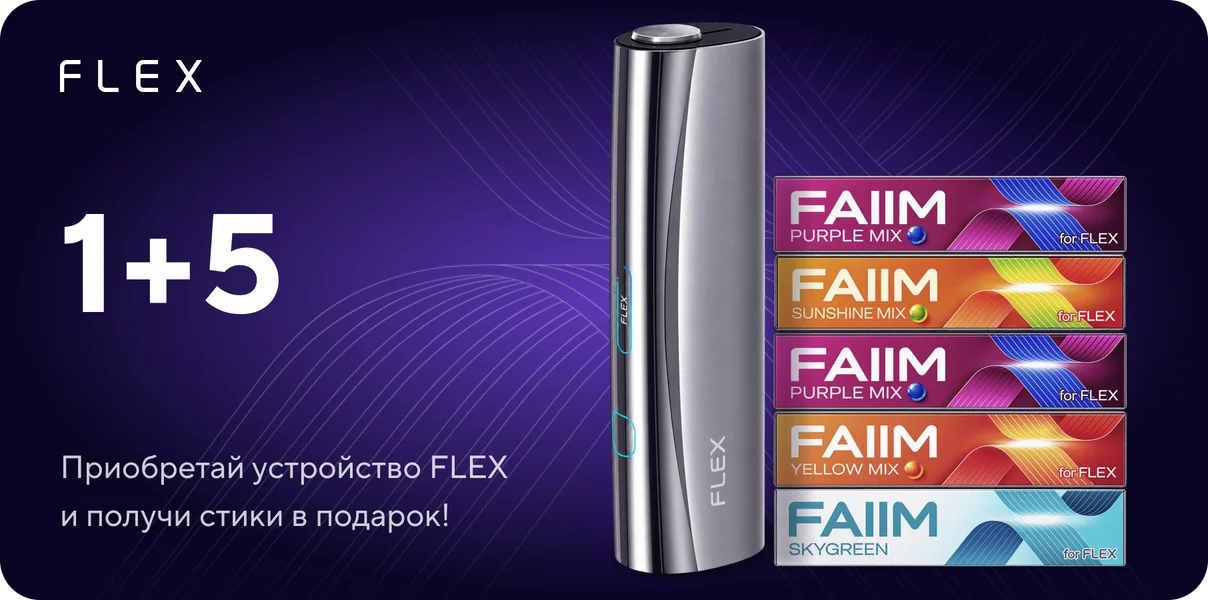
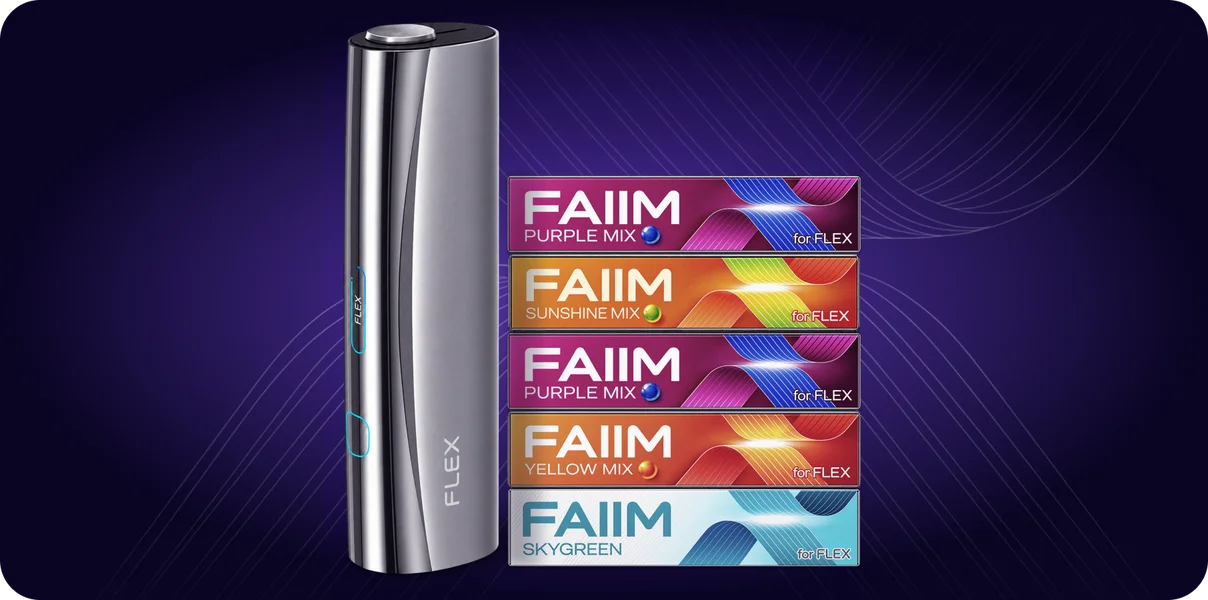
Главная: новое изображение стартового набора

diff --git a/index.html b/index.html
@@ -402,7 +402,7 @@
             <h3 class="program__title"><span class="t-desk">Стартовый набор</span><span class="t-mob">Всё для первого знакомства</span></h3>
             <p class="program__text"><span class="t-desk">Устройство и стики в наборе для быстрого старта</span><span class="t-mob">Устройство и стики собраны в удобный стартовый набор, чтобы быстро начать.</span></p>
           </div>
-          <img class="program__img" src="assets/images/program-starter.webp?v=3" alt="Стартовый набор FLEX" width="604" height="300" loading="lazy" />
+          <img class="program__img" src="assets/images/program-starter.webp?v=4" alt="Стартовый набор FLEX" width="604" height="300" loading="lazy" />
           <a class="button button--ghost" href="starter-kit.html"><span class="t-desk">Узнать больше</span><span class="t-mob">Выбрать стартовый набор</span></a>
         </article>
         <article class="program">
